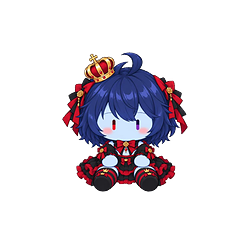
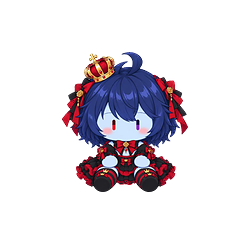
Velvet Bunny Cabaret plushies: add Roxhuo, clean white edges
Adds Roxhuo as the fourth plushie in the Velvet Bunny Cabaret group.
Removes the white background pixels left around Slime Queen Samantha,
Snow and Dana, which showed on dark backgrounds.

diff --git a/BondageClub/Assets/Female3DCG/Female3DCGExtended.js b/BondageClub/Assets/Female3DCG/Female3DCGExtended.js
@@ -24662,6 +24662,7 @@ var AssetFemale3DCGExtended = {
 						{}, // Slime Queen Samantha
 						{}, // Snow
 						{}, // Dana
+						{}, // Roxhuo
 					],
 					DrawData: {
 						elementData: [
@@ -24676,6 +24677,9 @@ var AssetFemale3DCGExtended = {
 							{
 								imagePath:
 									"Assets/Female3DCG/ItemHandheld/Plushie_VelvetDana.png",
+							},
+							{
+								imagePath: "Assets/Female3DCG/ItemHandheld/Plushie_Roxhuo.png",
 							},
 						],
 					},

diff --git a/BondageClub/Assets/Female3DCG/Female3DCG.js b/BondageClub/Assets/Female3DCG/Female3DCG.js
@@ -52537,6 +52537,10 @@ var AssetFemale3DCG = [
 						Name: "VelvetDana",
 						AllowTypes: { VelvetBunnyCabaret: 3 },
 					},
+					{
+						Name: "Roxhuo",
+						AllowTypes: { VelvetBunnyCabaret: 4 },
+					},
 				],
 			},
 			{
